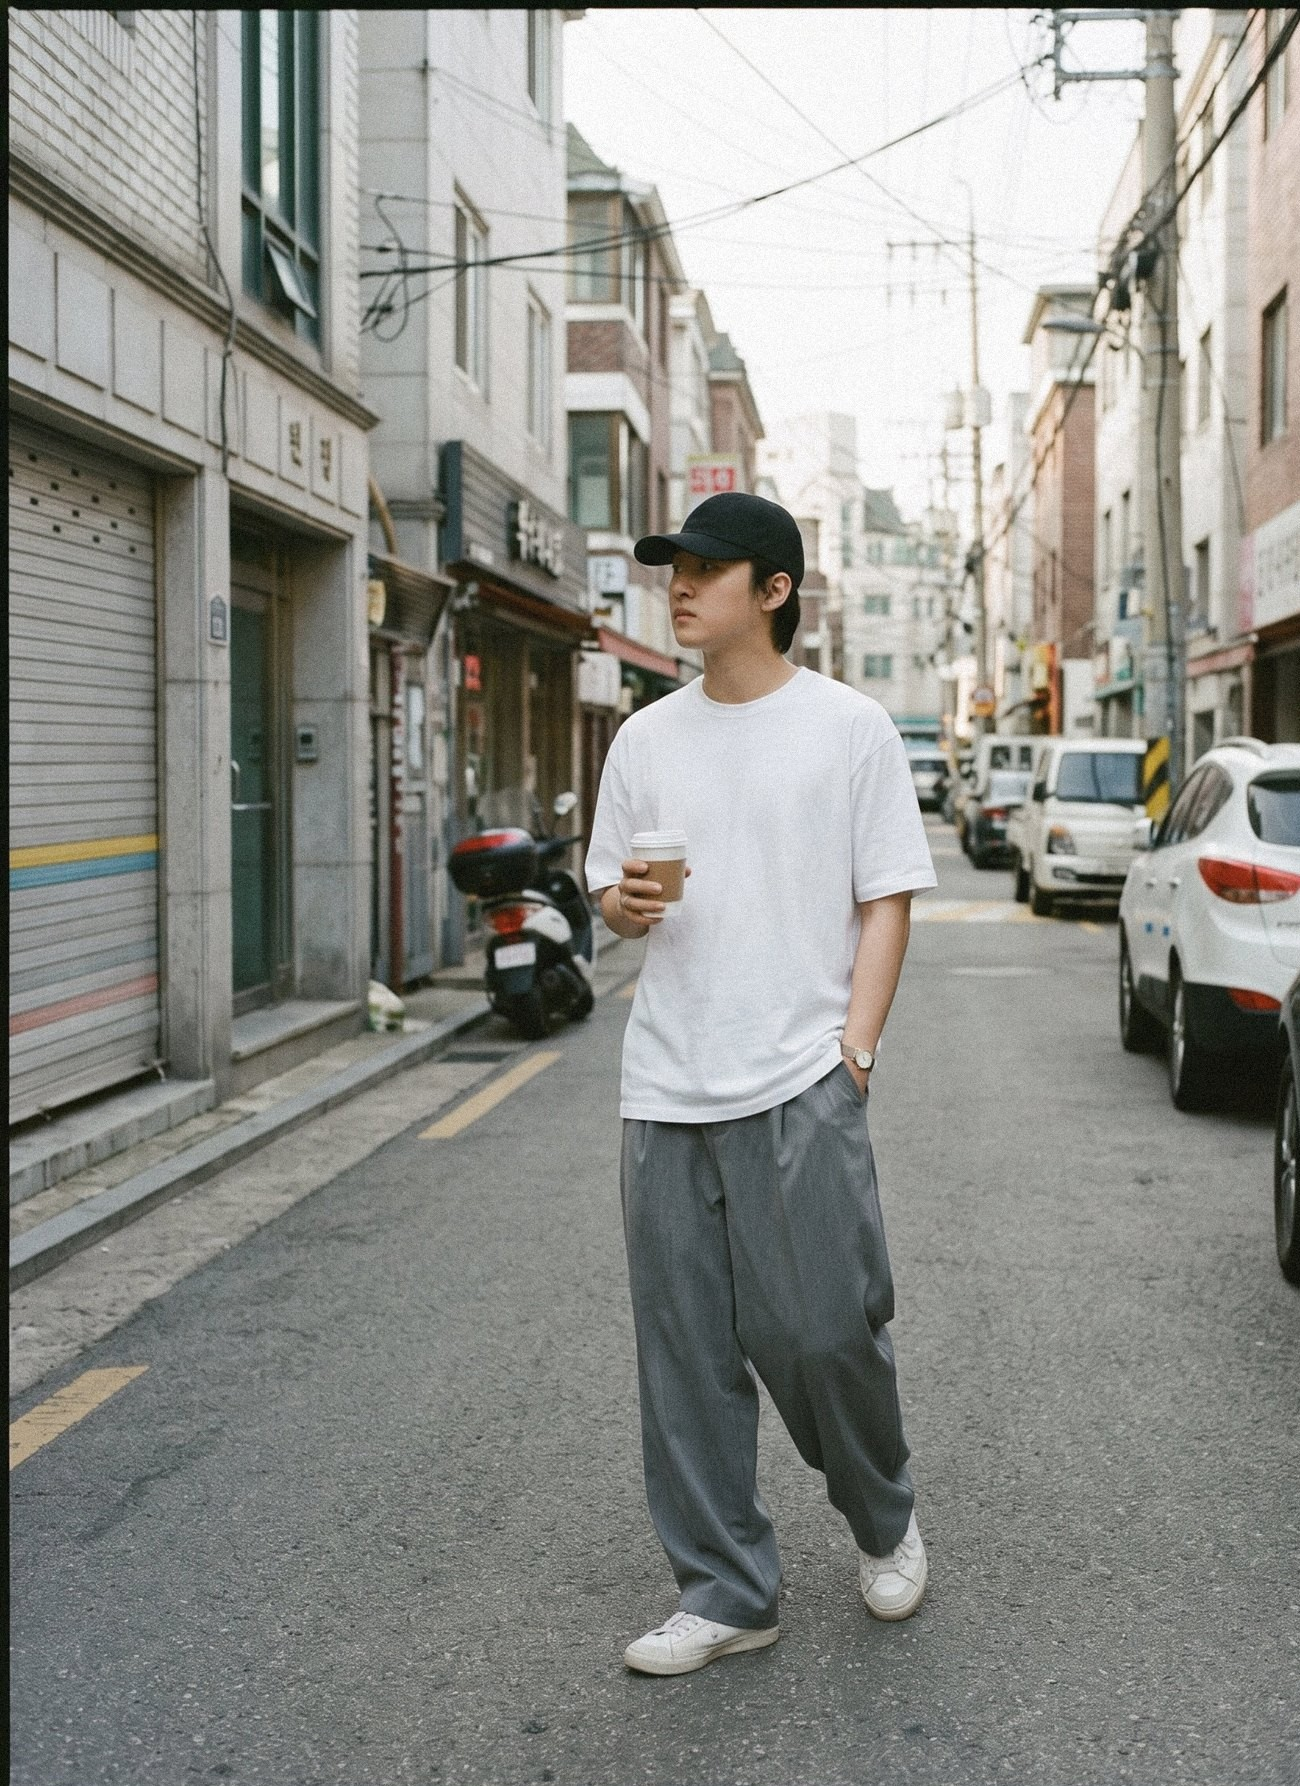
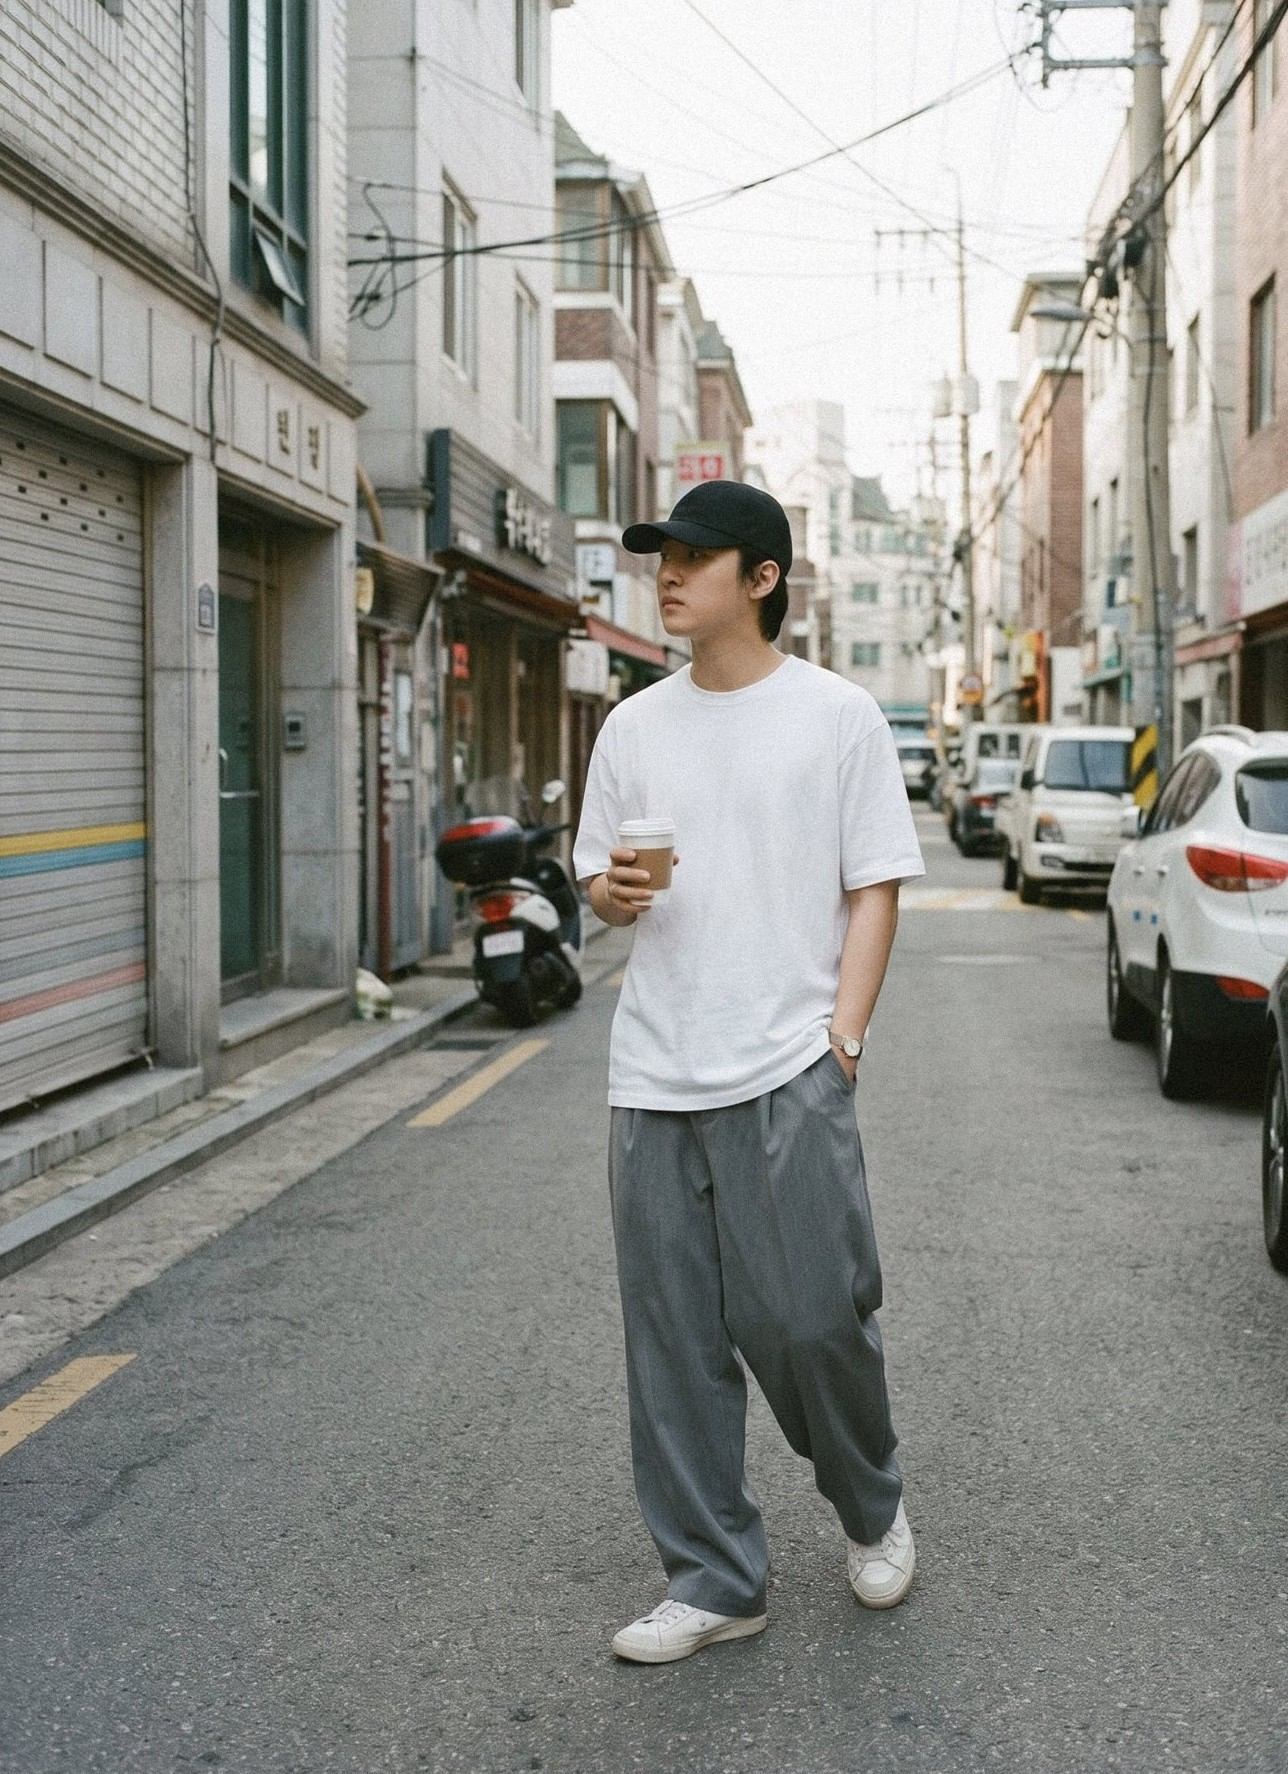
Home lookbook photo: show whole portrait on wide screens, trim frame edge
Claude-Session: https://claude.ai/code/session_01XtgAfvLokzUmBu7gCvCfmP

diff --git a/src/styles.css b/src/styles.css
@@ -758,3 +758,9 @@ button.mb-choice:hover { background: rgba(0,0,0,.3); }
 .home-look { position: relative; display: block; height: 88svh; overflow: hidden; background: var(--night); }
 .home-look img { width: 100%; height: 100%; object-fit: cover; object-position: 50% 18%; }
 .home-look-cap { position: absolute; left: var(--gut); bottom: 28px; display: flex; gap: 12px; color: #F4F4F2; font: 500 12px var(--mono); letter-spacing: .14em; text-transform: uppercase; }
+/* Wide screens: show the portrait photo whole instead of blowing it up to full width. */
+@media (min-width: 900px) {
+  .home-look { height: auto; padding: 56px var(--gut); background: var(--bg); }
+  .home-look img { display: block; width: auto; max-width: 100%; height: 86svh; margin: 0 auto; }
+  .home-look-cap { color: var(--fg); bottom: 56px; }
+}
